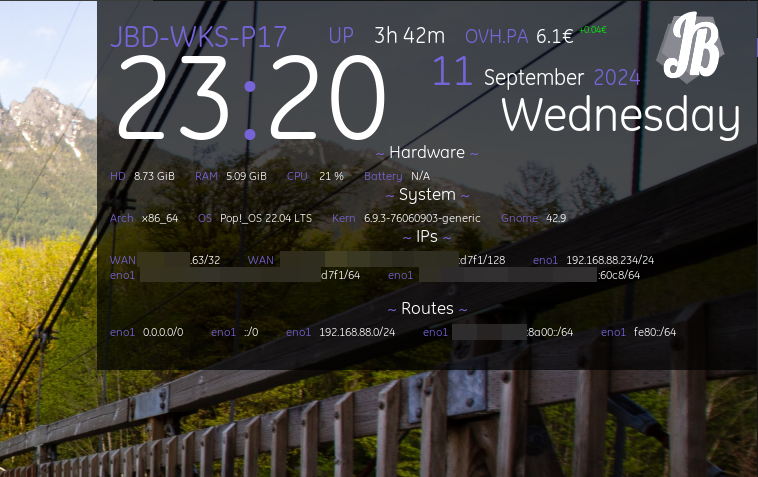
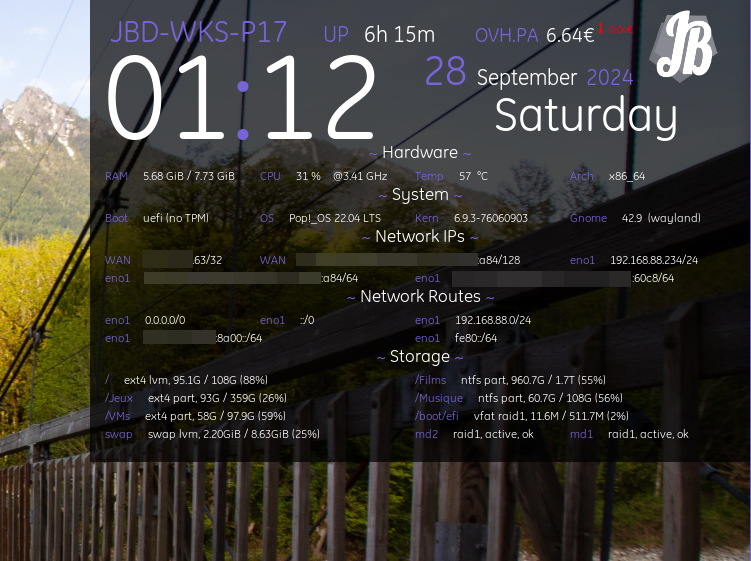
feat(conf,helper,README): introduce storage informations

diff --git a/README.md b/README.md
@@ -4,12 +4,31 @@ Lua helper for conky script
 
 ![Screenshot](screenshot.png)
 
+## Features
+
+- 100% lua
+- all static informations are only loaded once at conky startup
+- internet-dependent caching of information
+- modular: everything is configurable in configuration file without editing lua code
+
+|Category|Description|
+|---|---|
+|Basic informations|Date, time, hostname|
+|Desktop uptime|Uptime since last wake up (or system is up)|
+|Stock market live|1 customizable stock market index|
+|Hardware informations|RAM, CPU usage, CPU temperature & battery statuses (or architecture if not a laptop)|
+|System informations|Boot, OS, kernel & gnome versions|
+|Network|Private & public IPs v4/v6 & routes|
+|Storage mountPoints|Partitions informations with customizable blacklist|
+|Storage raids|mdadm software raids status|
+|Customization|1 customizable logo|
+
 ## Installation
 
 Clone this repo to `~/.config/conky/JayBeeDe`
 
 ```bash
-sudo apt-get install fonts-font-awesome lua-json lua-socket lua-sec mokutil
+sudo apt-get install jq fonts-font-awesome lua-json lua-socket lua-sec mokutil
 git clone git@github.com:JayBeeDe/conky-scripts.git ~/.config/conky/JayBeeDe
 ln -s ~/.config/conky/JayBeeDe ~/.config/conky/default
 ```
